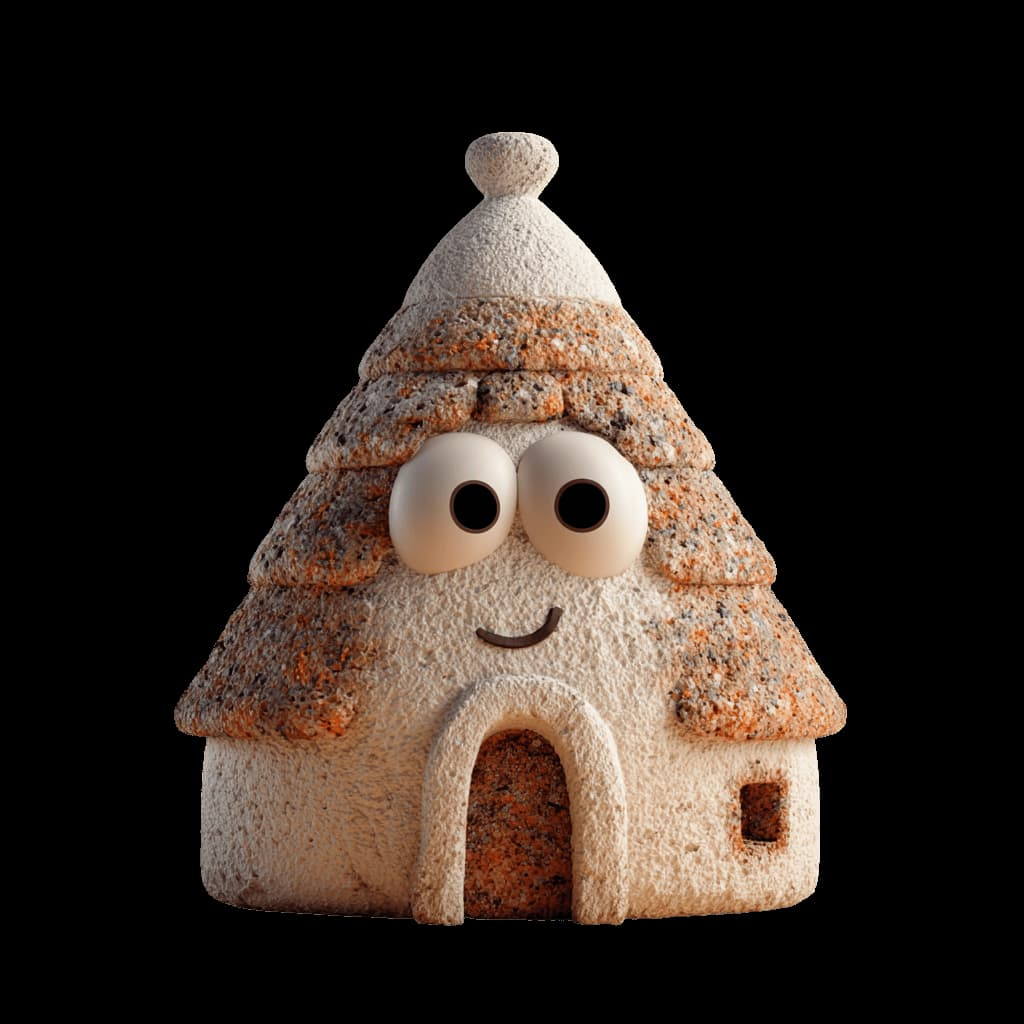
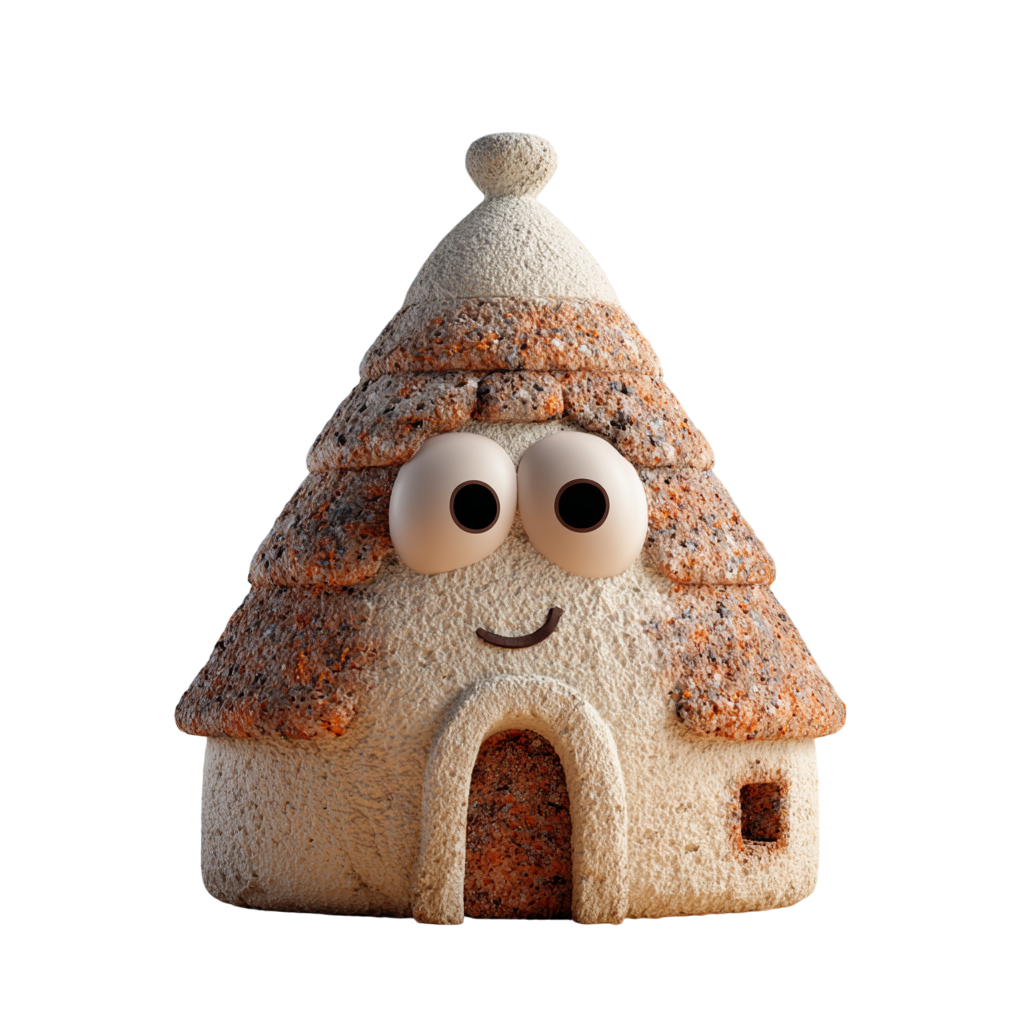
Update trullo image from PNG to JPG format
- Replaced all trullo.png references with trullo.jpg
- Updated TrulloChatbot.tsx (3 references)
- Updated TrulloChatbot.test.tsx (3 references)
- New JPG image has transparent background removed as requested

diff --git a/components/trullo/TrulloChatbot.test.tsx b/components/trullo/TrulloChatbot.test.tsx
@@ -318,7 +318,7 @@ export default function TrulloChatbot({ language = 'en' }: TrulloChatbotProps) {
         >
           <div className="relative">
             <img
-              src="/trullo.png"
+              src="/trullo.jpg"
               alt="Chat with Trullo"
               className={`object-contain ${isMobile ? 'w-10 h-10' : 'w-8 h-8'}`}
               onError={(e) => {
@@ -367,7 +367,7 @@ export default function TrulloChatbot({ language = 'en' }: TrulloChatbotProps) {
               <div className="flex items-center space-x-2 md:space-x-3">
                 <div className={`bg-white rounded-full flex items-center justify-center shadow-md ${isMobile ? 'w-10 h-10 p-1' : 'w-12 h-12 p-1'}`}>
                   <img
-                    src="/trullo.png"
+                    src="/trullo.jpg"
                     alt="Trullo"
                     className="w-full h-full object-contain"
                     onError={(e) => {
@@ -501,7 +501,7 @@ export default function TrulloChatbot({ language = 'en' }: TrulloChatbotProps) {
                   <div className="text-center p-8 max-w-sm">
                     <div className="mb-6">
                       <img 
-                        src="/trullo.png" 
+                        src="/trullo.jpg" 
                         alt="Trullo" 
                         className="w-20 h-20 mx-auto mb-4"
                         onError={(e) => {

diff --git a/components/trullo/TrulloChatbot.tsx b/components/trullo/TrulloChatbot.tsx
@@ -339,7 +339,7 @@ export default function TrulloChatbot({ language = 'en' }: TrulloChatbotProps) {
         >
           <div className="relative">
             <img
-              src="/trullo.png"
+              src="/trullo.jpg"
               alt="Chat with Trullo"
               className={`object-contain ${isMobile ? 'w-10 h-10' : 'w-8 h-8'}`}
               onError={(e) => {
@@ -383,7 +383,7 @@ export default function TrulloChatbot({ language = 'en' }: TrulloChatbotProps) {
               <div className="flex items-center space-x-2 md:space-x-3">
                 <div className={`bg-white rounded-full flex items-center justify-center shadow-md ${isMobile ? 'w-10 h-10 p-1' : 'w-12 h-12 p-1'}`}>
                   <img
-                    src="/trullo.png"
+                    src="/trullo.jpg"
                     alt="Trullo"
                     className="w-full h-full object-contain"
                     onError={(e) => {
@@ -488,7 +488,7 @@ export default function TrulloChatbot({ language = 'en' }: TrulloChatbotProps) {
                   <div className="text-center p-8 max-w-sm">
                     <div className="mb-6">
                       <img 
-                        src="/trullo.png" 
+                        src="/trullo.jpg" 
                         alt="Trullo" 
                         className="w-20 h-20 mx-auto mb-4"
                         onError={(e) => {
